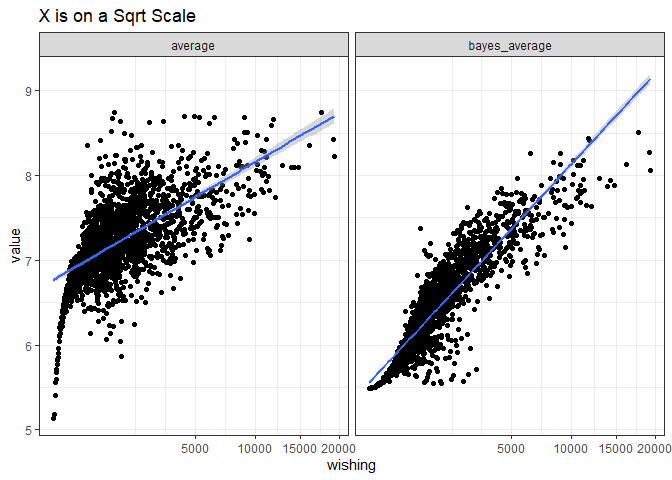
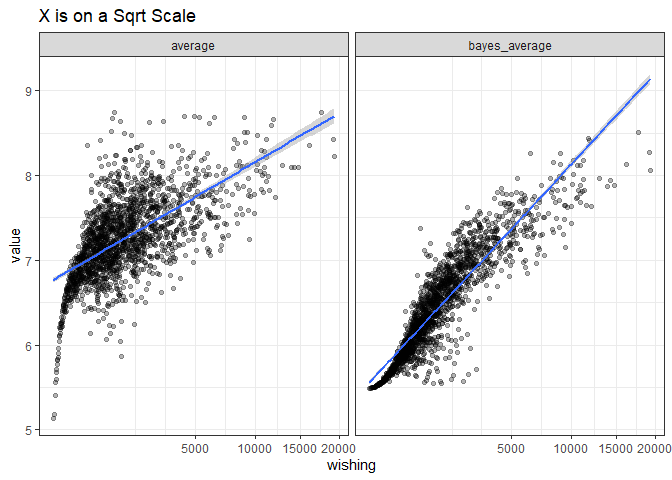
Quick tidymodels splitting data Test -> Train -> Plot

diff --git a/BoardGames.md b/BoardGames.md
@@ -260,7 +260,7 @@ gplot <- function(x,y) {
     summarize(y = mean({{y}})) %>%
     ggplot(aes({{x}}, y)) + geom_point()
 }
-gplot(wanting, bayes_average) + scale_x_log10()
+gplot(wanting, bayes_average) + scale_x_sqrt()
 ```
 
 ![](BoardGames_files/figure-gfm/unnamed-chunk-9-1.png)<!-- -->
@@ -274,7 +274,7 @@ gplot2 <- function(x) {
     filter({{x}} > 0) %>%
     group_by({{x}}, key) %>%
     summarize(value = mean(value)) %>%
-    ggplot(aes({{x}}, value)) + geom_point() + facet_wrap(~key)
+    ggplot(aes({{x}}, value)) + geom_point(alpha = 0.3) + facet_wrap(~key)
 }
 
 gplot2(wishing) + scale_x_log10() + geom_smooth(method = "lm") + labs(title = "X is on a Log10 Scale")
@@ -298,30 +298,32 @@ gplot2(wishing) + scale_x_sqrt() + geom_smooth(method = "lm") + labs(title = "X 
 #### Quick lm models
 
 ``` r
-lm(bayes_average ~ sqrt(wishing) * sqrt(wanting), games %>% filter(wishing >0)) %>% summary()
+lm(bayes_average ~ sqrt(wishing) * sqrt(wanting) + log(minplayers), games %>% filter(wishing >0, minplayers >0)) %>% summary()
 ```
 
     ## 
     ## Call:
-    ## lm(formula = bayes_average ~ sqrt(wishing) * sqrt(wanting), data = games %>% 
-    ##     filter(wishing > 0))
+    ## lm(formula = bayes_average ~ sqrt(wishing) * sqrt(wanting) + 
+    ##     log(minplayers), data = games %>% filter(wishing > 0, minplayers > 
+    ##     0))
     ## 
     ## Residuals:
     ##     Min      1Q  Median      3Q     Max 
-    ## -5.4732 -0.0582  0.0035  0.0567  1.1578 
+    ## -5.4731 -0.0587  0.0030  0.0570  1.1481 
     ## 
     ## Coefficients:
-    ##                               Estimate Std. Error  t value Pr(>|t|)    
-    ## (Intercept)                  5.372e+00  1.772e-03 3031.451   <2e-16 ***
-    ## sqrt(wishing)                2.004e-02  3.673e-04   54.554   <2e-16 ***
-    ## sqrt(wanting)                2.682e-02  7.296e-04   36.768   <2e-16 ***
-    ## sqrt(wishing):sqrt(wanting) -7.493e-05  8.132e-06   -9.214   <2e-16 ***
+    ##                               Estimate Std. Error t value Pr(>|t|)    
+    ## (Intercept)                  5.334e+00  2.801e-03 1904.10   <2e-16 ***
+    ## sqrt(wishing)                2.044e-02  3.658e-04   55.88   <2e-16 ***
+    ## sqrt(wanting)                2.724e-02  7.252e-04   37.56   <2e-16 ***
+    ## log(minplayers)              5.194e-02  2.996e-03   17.34   <2e-16 ***
+    ## sqrt(wishing):sqrt(wanting) -8.792e-05  8.110e-06  -10.84   <2e-16 ***
     ## ---
     ## Signif. codes:  0 '***' 0.001 '**' 0.01 '*' 0.05 '.' 0.1 ' ' 1
     ## 
-    ## Residual standard error: 0.1477 on 21518 degrees of freedom
-    ## Multiple R-squared:  0.8378, Adjusted R-squared:  0.8377 
-    ## F-statistic: 3.704e+04 on 3 and 21518 DF,  p-value: < 2.2e-16
+    ## Residual standard error: 0.1467 on 21474 degrees of freedom
+    ## Multiple R-squared:  0.8403, Adjusted R-squared:  0.8403 
+    ## F-statistic: 2.825e+04 on 4 and 21474 DF,  p-value: < 2.2e-16
 
 ``` r
 lm(average ~ log(wishing), games %>% filter(wishing >0)) %>% summary()
@@ -346,3 +348,110 @@ lm(average ~ log(wishing), games %>% filter(wishing >0)) %>% summary()
     ## Residual standard error: 0.7533 on 21520 degrees of freedom
     ## Multiple R-squared:  0.3382, Adjusted R-squared:  0.3382 
     ## F-statistic: 1.1e+04 on 1 and 21520 DF,  p-value: < 2.2e-16
+
+##### Plots of tidy lm models
+
+``` r
+lm(bayes_average ~ sqrt(wishing) * sqrt(wanting), games %>% filter(wishing >0)) %>% 
+  tidy(conf.int = TRUE) %>%
+  filter(term != "(Intercept)") %>%
+  ggplot(aes(estimate, term, color = term)) + geom_point() + geom_errorbar(aes(xmin = conf.low, xmax = conf.high))
+```
+
+![](BoardGames_files/figure-gfm/unnamed-chunk-12-1.png)<!-- -->
+
+``` r
+lm(bayes_average ~ ., games %>% select_if(is.numeric) %>% 
+  filter(wishing >0)) %>% 
+  tidy(conf.int = TRUE) %>%
+  filter(term != "(Intercept)") %>% 
+  drop_na() %>%
+  ggplot(aes(estimate, fct_reorder(term, estimate), color = term)) + 
+  geom_point() + geom_errorbar(aes(xmin = conf.low, xmax = conf.high)) +
+  theme(legend.position = "") + labs(y = "", title = "Linear model using only numeric estimates")
+```
+
+![](BoardGames_files/figure-gfm/unnamed-chunk-12-2.png)<!-- -->
+
+``` r
+library(tidymodels)
+```
+
+    ## Registered S3 method overwritten by 'tune':
+    ##   method                   from   
+    ##   required_pkgs.model_spec parsnip
+
+    ## -- Attaching packages -------------------------------------- tidymodels 0.1.4 --
+
+    ## v broom        0.7.10     v rsample      0.1.1 
+    ## v dials        0.0.10     v tune         0.1.6 
+    ## v infer        1.0.0      v workflows    0.2.4 
+    ## v modeldata    0.1.1      v workflowsets 0.1.0 
+    ## v parsnip      0.1.7      v yardstick    0.0.9 
+    ## v recipes      0.1.17
+
+    ## -- Conflicts ----------------------------------------- tidymodels_conflicts() --
+    ## x scales::discard() masks purrr::discard()
+    ## x dplyr::filter()   masks stats::filter()
+    ## x recipes::fixed()  masks stringr::fixed()
+    ## x dplyr::lag()      masks stats::lag()
+    ## x yardstick::spec() masks readr::spec()
+    ## x recipes::step()   masks stats::step()
+    ## * Learn how to get started at https://www.tidymodels.org/start/
+
+``` r
+games_split <- initial_split(games, strata = bayes_average)
+games_train <- training(games_split)
+games_test <- testing(games_split)
+
+
+model <- lm(bayes_average ~ sqrt(wishing) * sqrt(wanting) + minplayers + average, games_train)
+
+model %>% summary()
+```
+
+    ## 
+    ## Call:
+    ## lm(formula = bayes_average ~ sqrt(wishing) * sqrt(wanting) + 
+    ##     minplayers + average, data = games_train)
+    ## 
+    ## Residuals:
+    ##      Min       1Q   Median       3Q      Max 
+    ## -1.72398 -0.06045  0.00290  0.05676  1.13957 
+    ## 
+    ## Coefficients:
+    ##                               Estimate Std. Error t value Pr(>|t|)    
+    ## (Intercept)                  5.199e+00  9.346e-03 556.350  < 2e-16 ***
+    ## sqrt(wishing)                1.994e-02  4.024e-04  49.550  < 2e-16 ***
+    ## sqrt(wanting)                2.378e-02  8.056e-04  29.514  < 2e-16 ***
+    ## minplayers                   2.374e-02  1.615e-03  14.703  < 2e-16 ***
+    ## average                      2.139e-02  1.399e-03  15.289  < 2e-16 ***
+    ## sqrt(wishing):sqrt(wanting) -4.579e-05  8.994e-06  -5.091 3.61e-07 ***
+    ## ---
+    ## Signif. codes:  0 '***' 0.001 '**' 0.01 '*' 0.05 '.' 0.1 ' ' 1
+    ## 
+    ## Residual standard error: 0.139 on 16215 degrees of freedom
+    ## Multiple R-squared:  0.8546, Adjusted R-squared:  0.8546 
+    ## F-statistic: 1.906e+04 on 5 and 16215 DF,  p-value: < 2.2e-16
+
+``` r
+games_test %>%
+  mutate(predictions = predict(model, games_test)) %>%
+  group_by(wishing) %>%
+  summarize(bayes_average = mean(bayes_average),
+            predictions = mean(predictions)) %>%
+  ggplot(aes(wishing)) + geom_point(aes(y = bayes_average), alpha = 0.3) + 
+  geom_point(aes(y = predictions), color = "blue", alpha = 0.3) + scale_x_sqrt()
+```
+
+![](BoardGames_files/figure-gfm/unnamed-chunk-13-1.png)<!-- -->
+
+``` r
+games_test %>%
+  mutate(predictions = predict(model, games_test)) %>%
+  ggplot(aes(predictions, bayes_average)) + geom_point(alpha = 0.07) + 
+  geom_abline(color = "blue", linetype = "dashed", size = 1) +
+  xlim(5,10) + ylim(5,10)
+```
+
+![](BoardGames_files/figure-gfm/unnamed-chunk-13-2.png)<!-- -->
